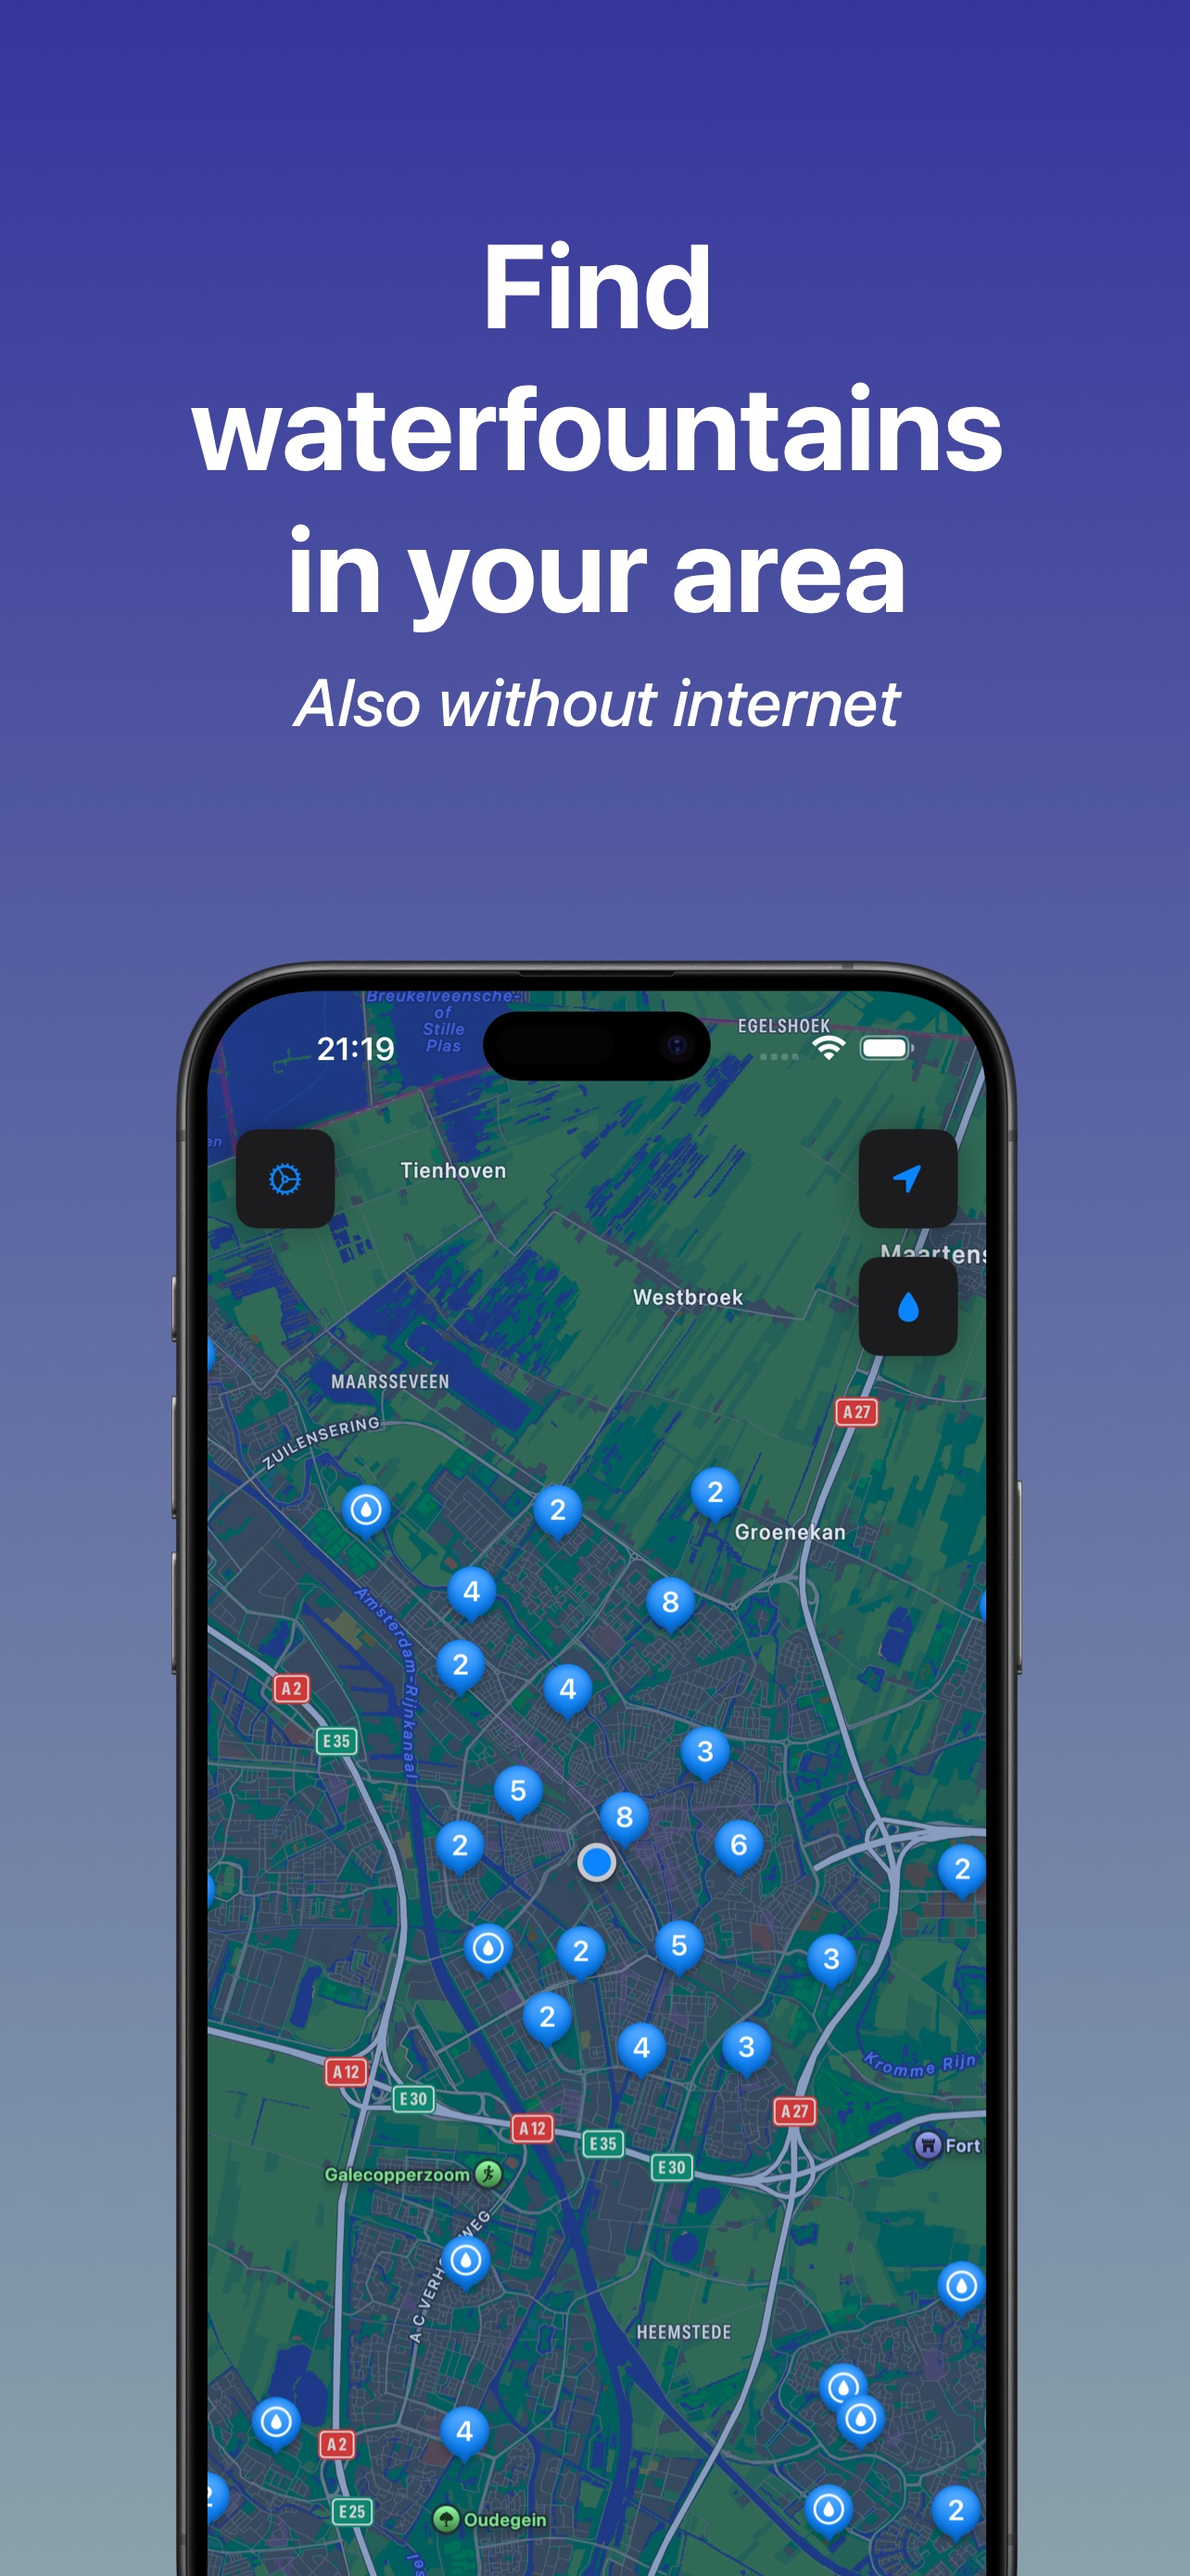
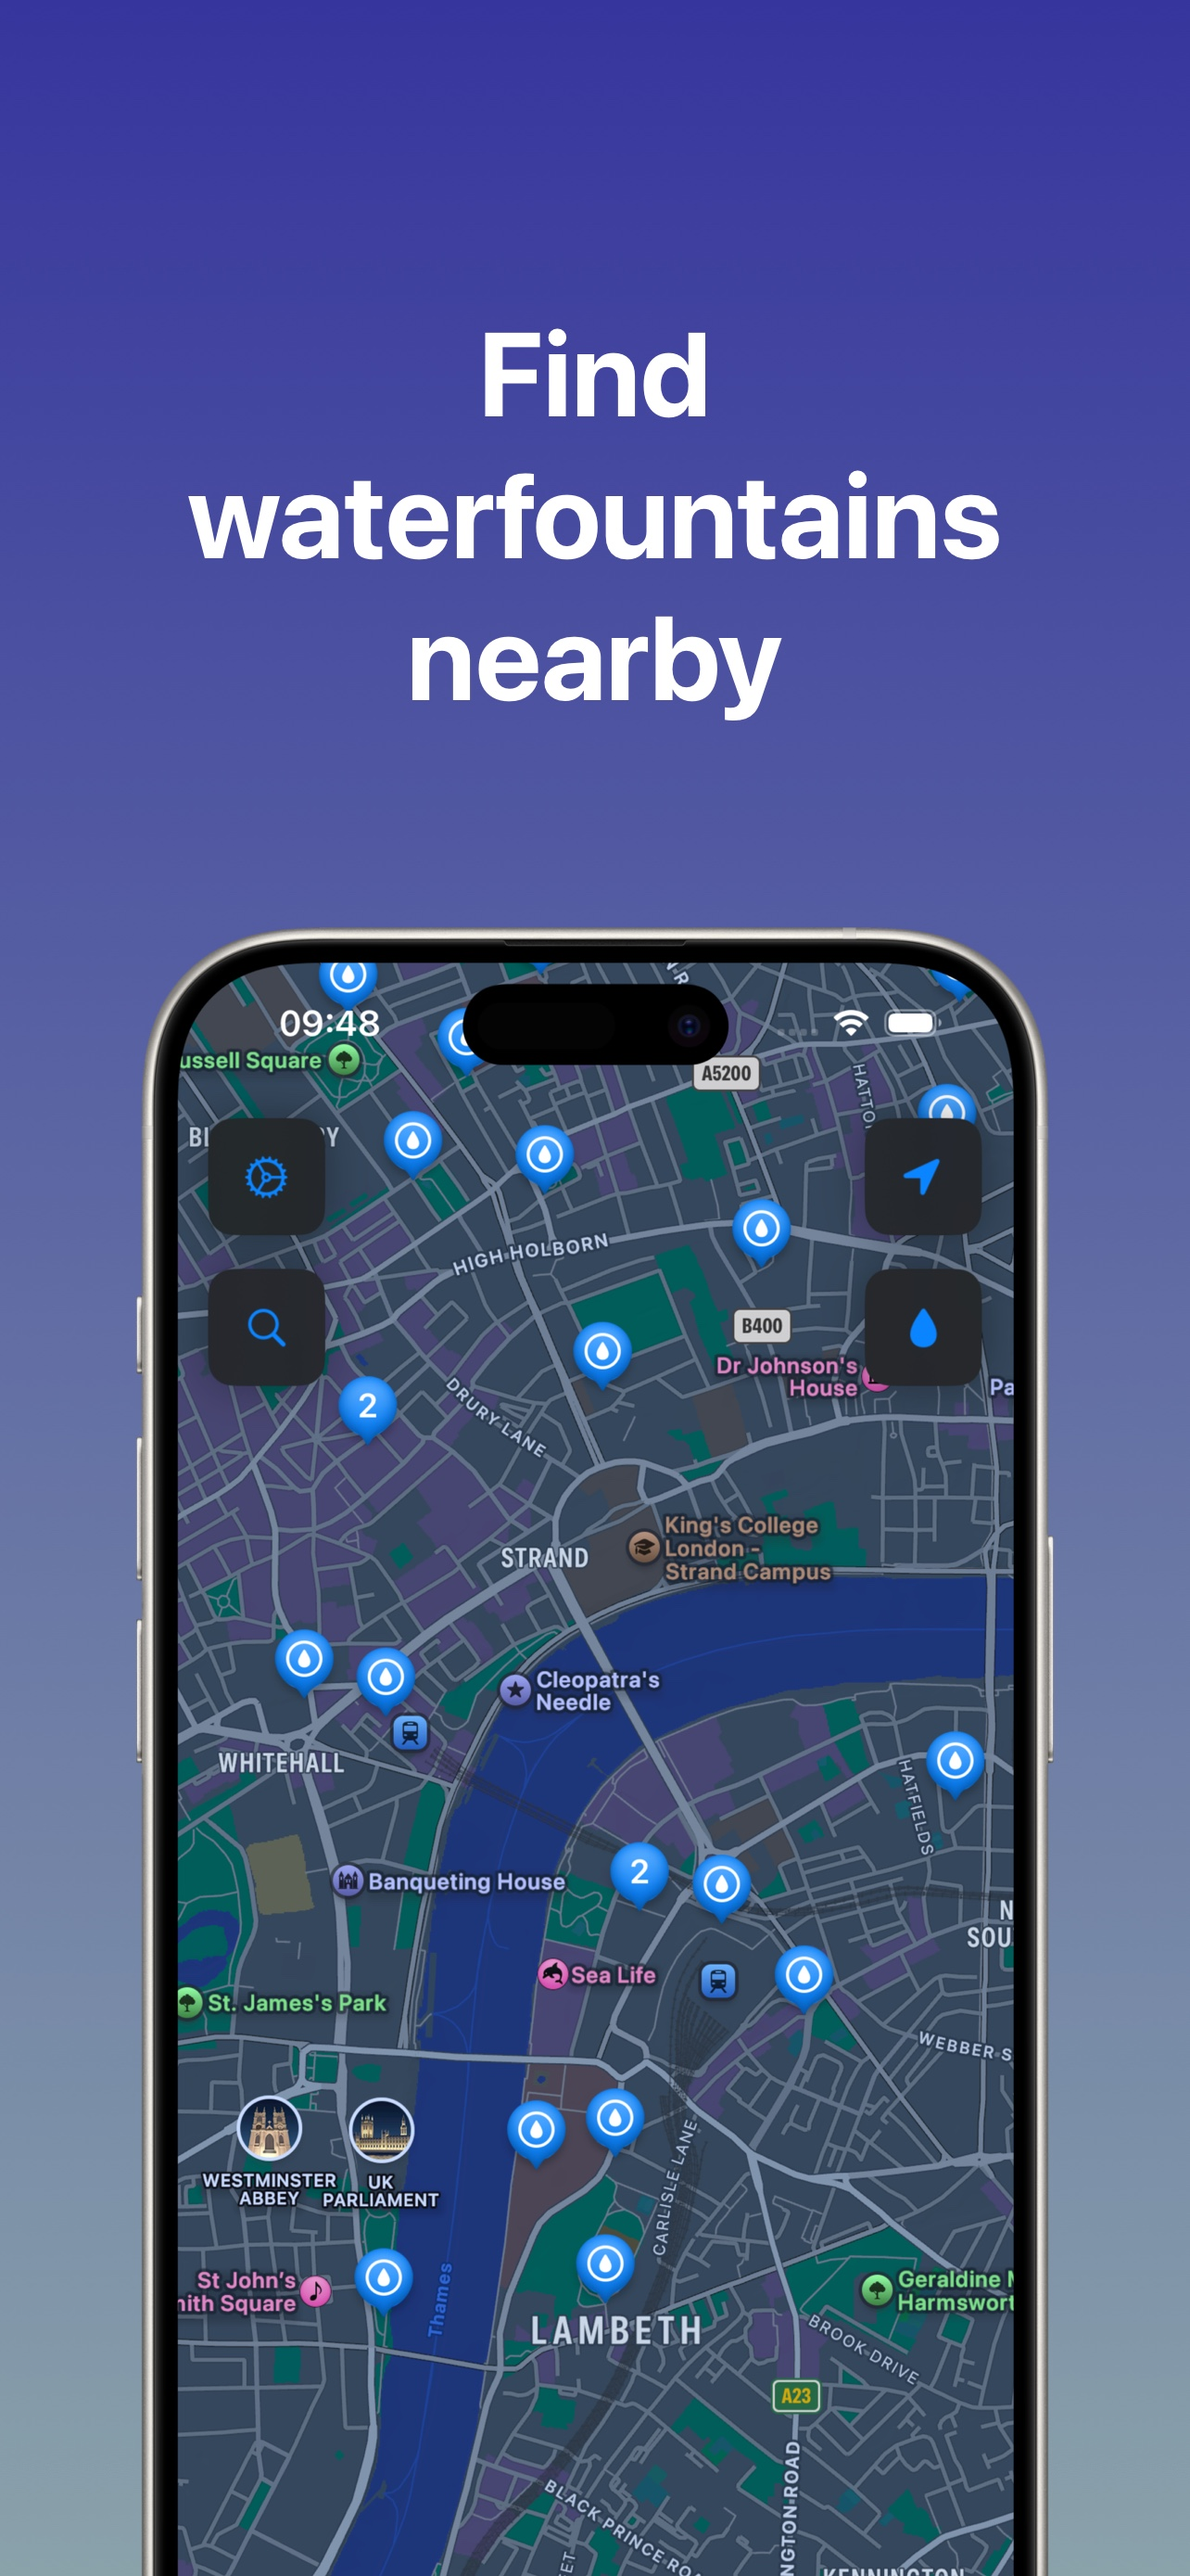
Update visuals and texts after global launch

diff --git a/src/index.html b/src/index.html
@@ -43,10 +43,12 @@
     <div class="container">
         <header>
             <h1>Water Mapper</h1>
-            <p>Your way to find nearby waterfountains in the Netherlands.</p>
+            <p>Your way to find waterfountains nearby, anywhere, now, or on holiday.</p>
             <p class="list">
-                - Works offline<br>
-                - Check distance to the waterfountains<br>
+                - Global coverage<br>
+                - Available in 12 languages<br>
+                - Simple to use<br>
+                - Check your distance to the waterfountains<br>
                 - Start navigation straight from the app<br>
                 - Mutliple data sources<br>
                 - On-device location validation<br>
@@ -60,6 +62,7 @@
             <section class="app-screenshots">
                 <img draggable="false" (dragstart)="false;" src="resources/screenshot1.jpg" alt="Screenshot 1" class="screenshot">
                 <img draggable="false" (dragstart)="false;" src="resources/screenshot2.jpg" alt="Screenshot 2" class="screenshot">
+                <img draggable="false" (dragstart)="false;" src="resources/screenshot3.jpg" alt="Screenshot 3" class="screenshot">
             </section>
         </main>
         <footer>
